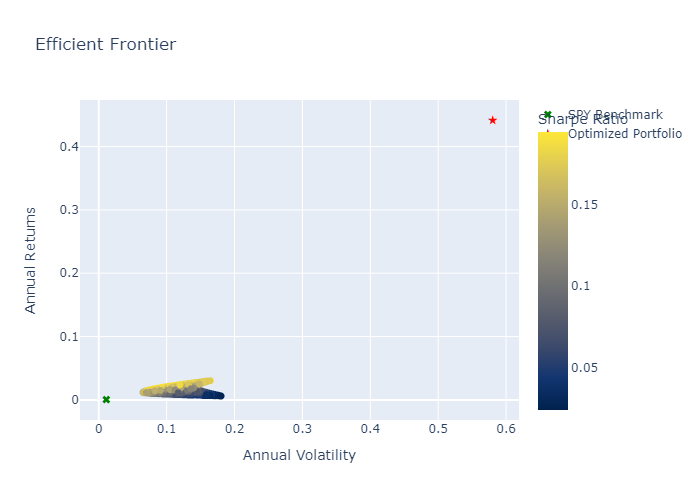
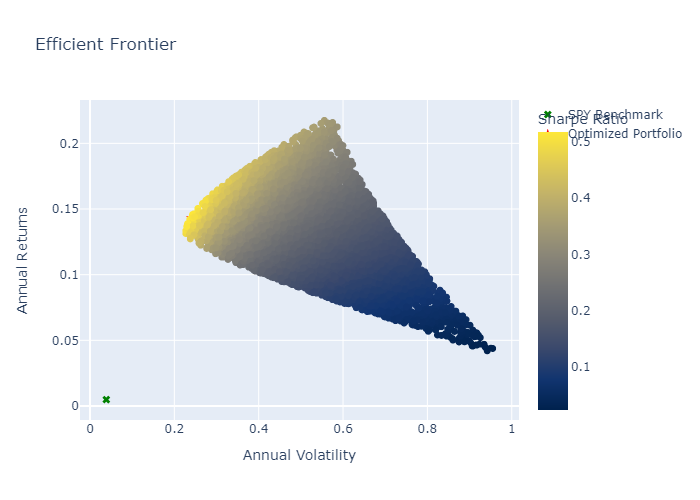
fixed annual returns calculation

diff --git a/portfolio_optimization1.py b/portfolio_optimization1.py
@@ -12,8 +12,6 @@ import os
 
 def fetch_stock_data(tickers, start_date, end_date):
     stock_data = yf.download(tickers, start=start_date, end=end_date)['Adj Close']
-    print("Fetched Stock Data Summary:")
-    print(stock_data.describe())  # Debug: Print a summary of the fetched data to ensure it's complete
     return stock_data
 
 # Fetch benchmark data for comparison with the portfolio
@@ -21,7 +19,7 @@ def fetch_benchmark_data(ticker='SPY', start_date=None, end_date=None):
     """Fetches benchmark data for comparison."""
     benchmark_data = yf.download(ticker, start=start_date, end=end_date)['Adj Close']
     benchmark_returns = benchmark_data.pct_change().dropna()
-    return benchmark_returns.mean(), benchmark_returns.std()
+    return benchmark_returns.mean() * 12, benchmark_returns.std() * np.sqrt(12)  # Annualize benchmark returns and volatility
 
 def calculate_monthly_returns(stock_data):
     """
@@ -36,15 +34,27 @@ def calculate_monthly_returns(stock_data):
     # Resample the data to monthly frequency ('M' stands for month-end) and calculate the percentage change
     monthly_stock_data = stock_data.resample('M').last()  # Take the last price of each month
     monthly_returns = monthly_stock_data.pct_change().dropna()  # Calculate the percentage change and drop NaN values
-    print("Monthly Returns Summary:")
-    print(monthly_returns.describe())  # Debug: Print a summary of the monthly returns
+    
     return monthly_returns
 
 def calculate_expected_returns(monthly_returns):
-    return monthly_returns.mean()
+    """
+    Calculates annualized expected returns using compounded monthly returns.
+
+    Parameters:
+    - monthly_returns: DataFrame of monthly returns
+
+    Returns:
+    - Series of annualized expected returns
+    """
+    # Calculate the mean of monthly returns, then compound to get the annualized return
+    expected_returns = (1 + monthly_returns).prod() ** (12 / len(monthly_returns)) - 1  # Compounded annual returns formula
+    
+    return expected_returns
 
 def calculate_covariance_matrix(monthly_returns):
-    return monthly_returns.cov()
+    covariance_matrix = monthly_returns.cov() * 12  # Annualize the covariance matrix
+    return covariance_matrix
 
 def calculate_portfolio_variance(weights, covariance_matrix):
     return np.dot(weights.T, np.dot(covariance_matrix, weights))
@@ -63,19 +73,19 @@ def monte_carlo_simulation(expected_returns, covariance_matrix, num_portfolios, 
         weights = np.random.random(num_assets)
         weights /= np.sum(weights)
 
-        # Portfolio return (monthly return)
+        # Portfolio return (annualized)
         portfolio_return = np.sum(weights * expected_returns)
         
-        # Portfolio volatility (monthly volatility)
+        # Portfolio volatility (annualized)
         portfolio_volatility = np.sqrt(np.dot(weights.T, np.dot(covariance_matrix, weights)))
         
-        # Sharpe ratio (monthly return minus monthly risk-free rate, divided by monthly volatility)
-        sharpe_ratio = (portfolio_return - monthly_risk_free_rate) / portfolio_volatility
+        # Sharpe ratio (annual return minus annual risk-free rate, divided by annual volatility)
+        sharpe_ratio = (portfolio_return - annual_risk_free_rate) / portfolio_volatility
 
         # Store results
         results[i, 0:num_assets] = weights
-        results[i, num_assets] = portfolio_return  # Monthly return
-        results[i, num_assets + 1] = portfolio_volatility  # Monthly volatility
+        results[i, num_assets] = portfolio_return  # Annual return
+        results[i, num_assets + 1] = portfolio_volatility  # Annual volatility
         results[i, num_assets + 2] = sharpe_ratio
 
     # Create a DataFrame for the results
@@ -177,11 +187,8 @@ def analyze_stocks(tickers, start_date, end_date, num_portfolios, risk_free_rate
     top_portfolios = monte_carlo_results.sort_values(by='sharpe_ratio', ascending=False).head(5)
     
     # Annualize monthly return and volatility
-    optimized_return = (1 + np.sum(optimized_weights_np * expected_returns)) ** 12 - 1
-    optimized_volatility = np.sqrt(np.dot(optimized_weights_np.T, np.dot(covariance_matrix, optimized_weights_np))) * np.sqrt(12)
-    
-    print("Optimized Return (Annualized):", optimized_return)  # Debug: Print the optimized annual return
-    print("Optimized Volatility (Annualized):", optimized_volatility)  # Debug: Print the optimized annual volatility
+    optimized_return = np.sum(optimized_weights_np * expected_returns)
+    optimized_volatility = np.sqrt(np.dot(optimized_weights_np.T, np.dot(covariance_matrix, optimized_weights_np)))
     
     # Fetch benchmark data
     benchmark_return, benchmark_volatility = fetch_benchmark_data(start_date=start_date, end_date=end_date)
@@ -202,7 +209,7 @@ def analyze_stocks(tickers, start_date, end_date, num_portfolios, risk_free_rate
 
 # Main function to define parameters and run the analysis
 def main():
-    portfolio = ['BTC-USD', 'TSLA','MSFT']  
+    portfolio = ['BTC-USD','MSFT', 'COIN']
     start_date = '2022-01-01' # yyyy-dd-mm
     end_date = '2024-12-10' # yyyy-dd-mm
     num_portfolios = 10000
